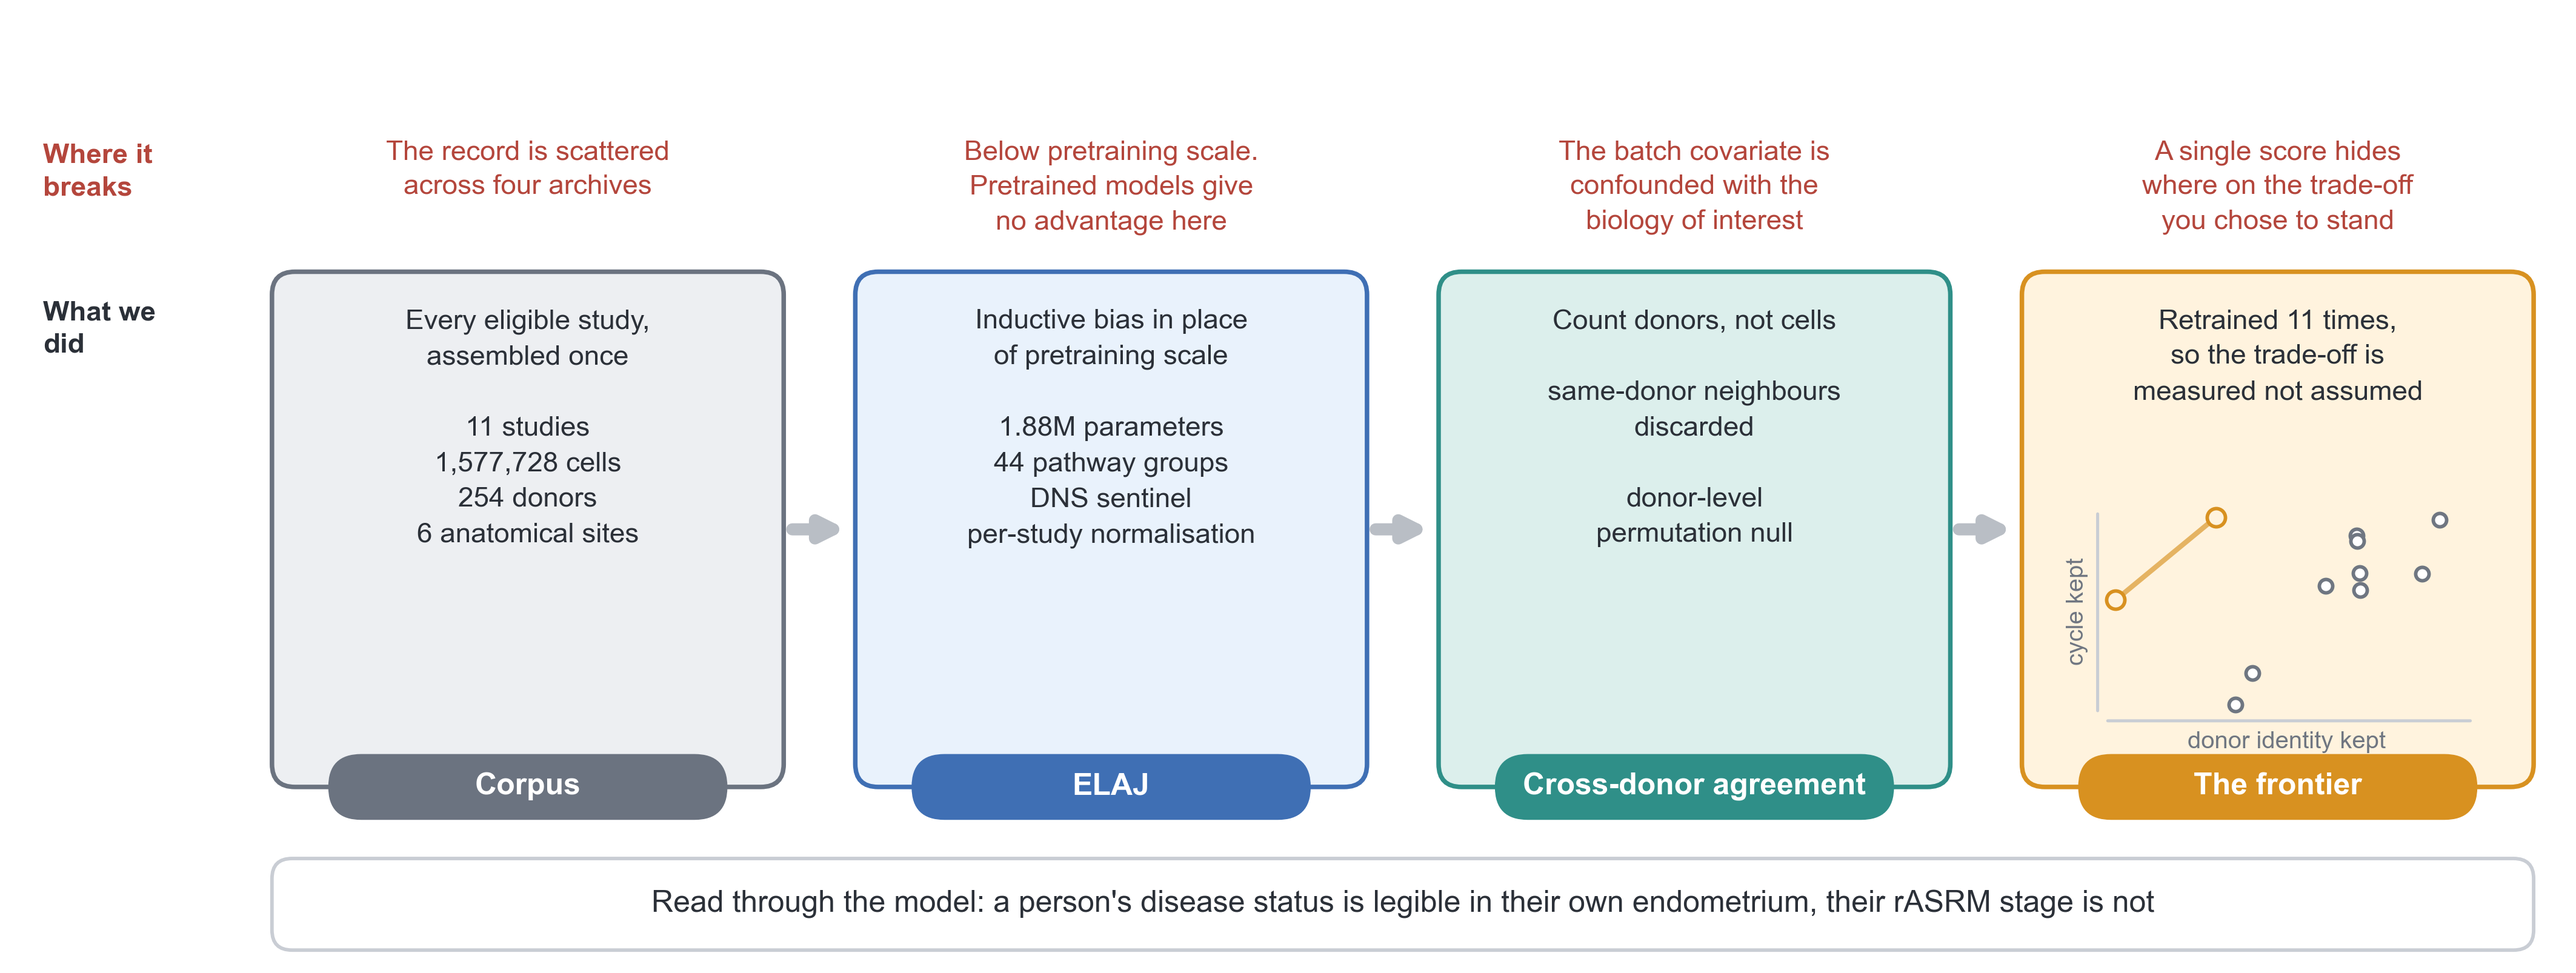
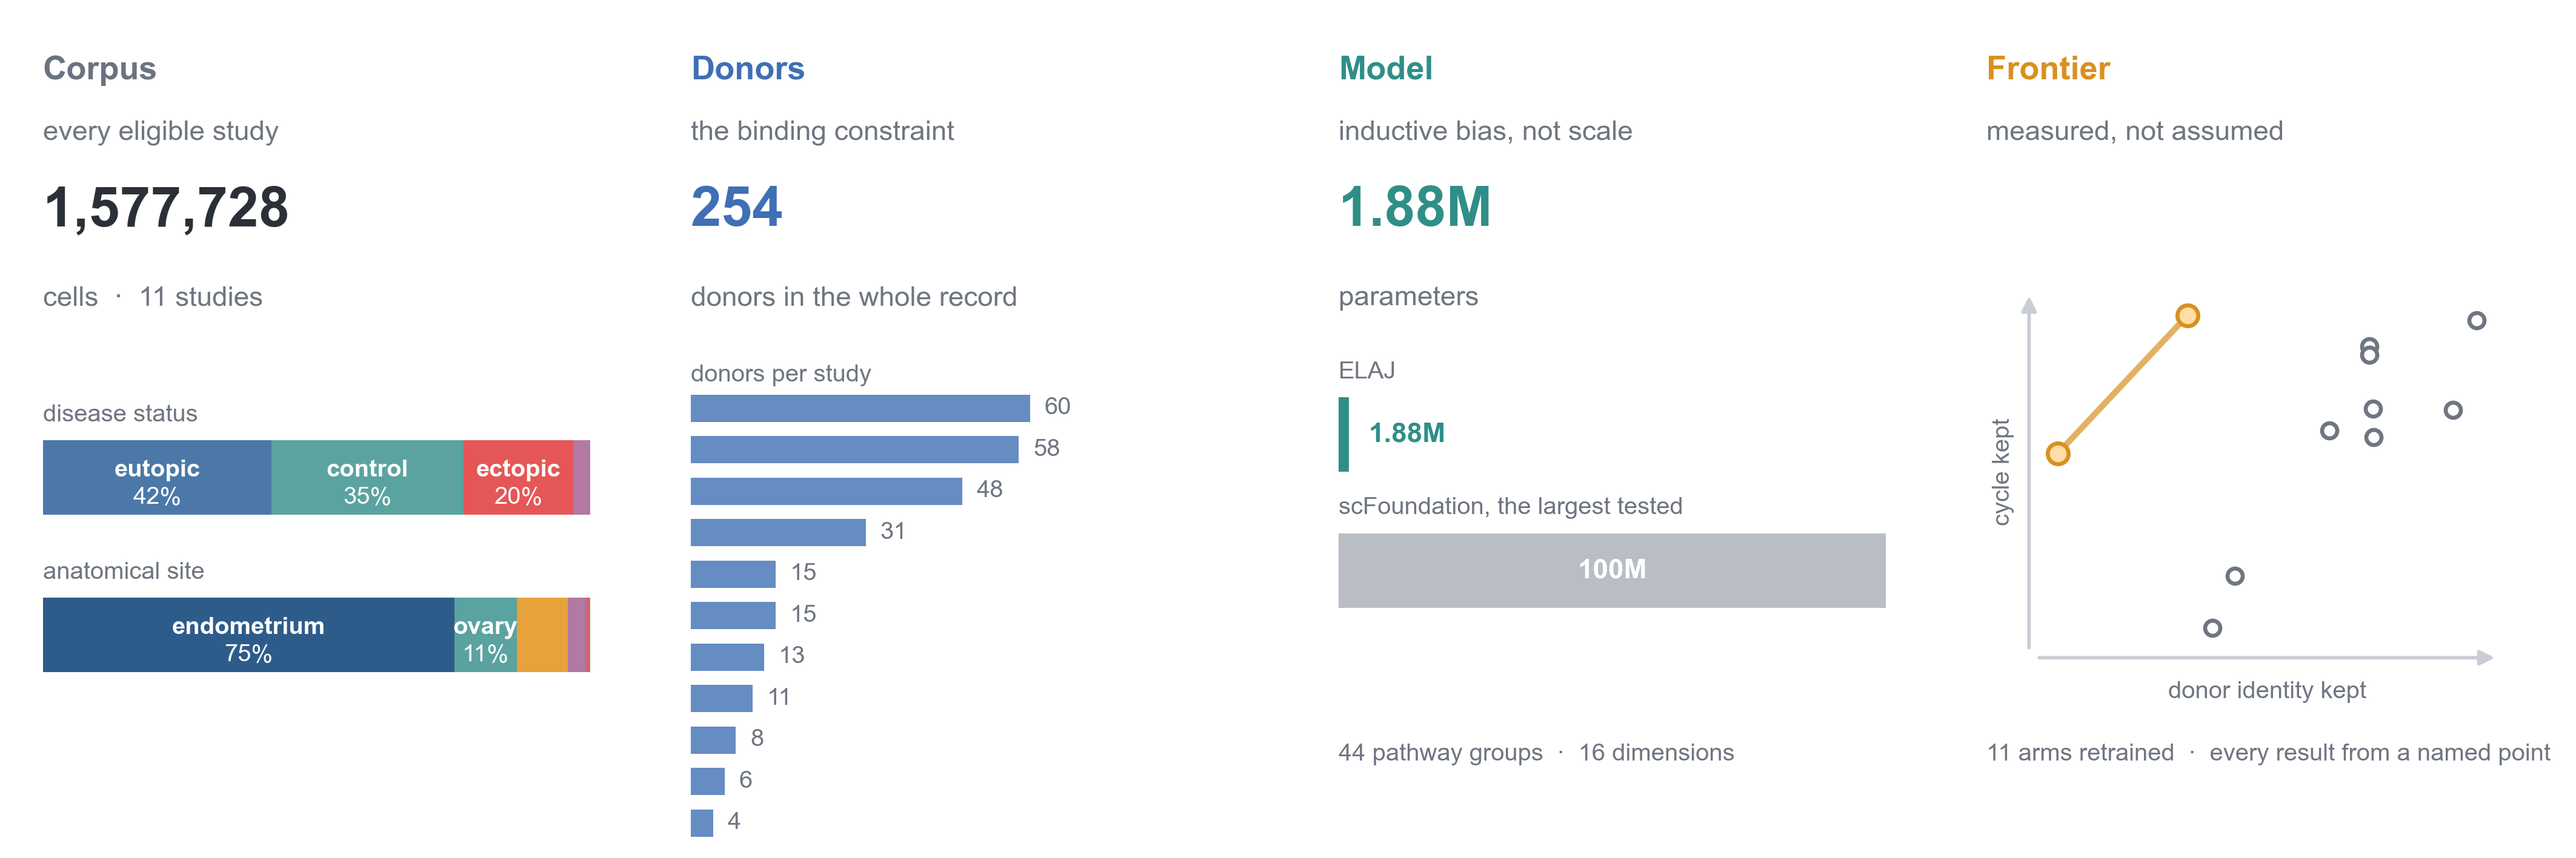
Figure 1a as a graphical abstract: numbers and bars, not sentences

diff --git a/figures/scripts/panel_a_abstract.py b/figures/scripts/panel_a_abstract.py
@@ -1,31 +1,32 @@
 #!/usr/bin/env python
-"""Candidate Figure 1a — the paper in one image.
+"""Candidate Figure 1a — the paper in one image, IBDex's idiom.
 
-AW, 11 November: panel a stops being the architecture and becomes what
-scGPT's Figure 1a is, which is the paper's claim stated visually. The
-architecture moves to 1b.
+AW, 11 November, on the previous attempt: "too literal with too many words.
+That is not a graphical abstract." He was right. It was a table of sentences
+with boxes drawn round it.
 
-THE FIGURE IS THE AGREED ONE-LINE STORY, IN ORDER. Every box in the lower
-band is one clause of it and nothing appears that is not in it:
+WHAT IBDex FIG. 1a ACTUALLY DOES (Acharjee, medRxiv 2026.10.20.26365993),
+read off the PDF rather than remembered:
+  * bold coloured headings over each group, and almost no prose anywhere
+  * stacked proportional bars with the count AND the percentage set inside
+    the coloured block, in white
+  * pictograms where a picture will do
+  * numbers as the content. Sentences are the caption's job, not the
+    figure's.
 
-  "In this paper we build a single-cell disease atlas where inductive bias
-   replaces pretraining scale, and use that to measure the trade-off between
-   removing batch effects and keeping biology on a corpus limited by donors."
+So this version carries four beats, each a heading, a three-word subtitle
+and a picture made of real numbers. The argument is in the comparison of
+the pictures, not in text:
 
-  corpus limited by donors -> inductive bias not scale -> measure -> frontier
+  corpus -> donors are the binding constraint -> small model -> the frontier
 
-GRAMMAR BORROWED FROM scGPT FIG. 1a (Nat. Methods 21, 1470-1480), read off
-the published PDF rather than remembered:
-  * rounded group boxes with a coloured outline and a dark pill tab sitting
-    ON the bottom border, naming the stage. That tab is their signature.
-  * row labels on the far left, set in the row's own colour.
-  * chunky grey arrows between groups, so the eye reads stages not wiring.
-  * real content inside the boxes rather than abstractions, which is why
-    the last box holds the actual frontier rather than a cartoon of one.
+which is the agreed one-line story, with the prose removed.
 
-THE UPPER BAND IS THE PROBLEM, and it is deliberately wordy and numberless:
-a graphical abstract is read in ten seconds, so the numbers all sit in the
-lower band where the evidence is.
+THE DONOR COUNT IS 254, NOT THE 269 THE TABLE RETURNS. 269 is the
+pre-deduplication count of patient identifiers; fifteen samples are
+duplicated across studies. 254 is the settled number everywhere in the
+paper and 269 appears only in Data collection where the merge is explained.
+The assert below fails loudly if that ever stops being true.
 """
 from __future__ import annotations
 import os, sys
@@ -34,50 +35,142 @@ from pathlib import Path
 import matplotlib
 matplotlib.use("Agg")
 import matplotlib.pyplot as plt
-from matplotlib.patches import FancyBboxPatch
+import pandas as pd
+from matplotlib.patches import FancyBboxPatch, Rectangle
 
 sys.path.insert(0, str(Path(__file__).resolve().parent))
 from table1 import collect, MANIFEST, BASELINES, FOUNDATION   # noqa: E402
 
+ROOT = Path("/Users/atharvawaghmare/Endo research/ELAJ")
+ARM = "p1_dab168_kl1"
 OUT = Path(__file__).resolve().parents[1] / "pinned"
 
-INK, NOTE, HAIR = "#2B3038", "#6F7681", "#C9CDD4"
-PROB = "#B4463C"                      # the problem band
-GREY_F, GREY_E = "#EDEFF2", "#6B7380"
-BLUE_F, BLUE_E = "#E9F2FC", "#3F6FB4"
-TEAL_F, TEAL_E = "#DCEFEC", "#2F8F88"
-AMB_F,  AMB_E  = "#FFF3DE", "#D89120"
+DONORS = 254          # see the docstring
+PARAMS_ELAJ, PARAMS_FM = 1.883986, 100.0      # millions
 
-FS_PILL, FS_BODY, FS_PROB, FS_OUT = 6.0, 5.5, 5.5, 6.0
+INK, NOTE, HAIR = "#2B3038", "#6F7681", "#C9CDD4"
+GREY_E, BLUE_E, TEAL_E, AMB_E = "#6B7380", "#3F6FB4", "#2F8F88", "#D89120"
+DIS_C = {"eutopic": "#4C78A8", "control": "#5BA3A0",
+         "ectopic": "#E45756", "adenomyosis": "#B279A2"}
+TIS_C = ["#2E5C8A", "#5BA3A0", "#E8A23C", "#B279A2", "#CC6677", "#999933"]
+
+FS_HEAD, FS_SUB, FS_NUM, FS_TINY = 6.5, 5.5, 5.5, 4.8
 plt.rcParams.update({"font.family": "Arial", "text.color": INK})
 
 
-def group(ax, x, y, w, h, fc, ec, pill, body):
-    ax.add_patch(FancyBboxPatch((x, y), w, h, "round,pad=0,rounding_size=1.6",
-                                fc=fc, ec=ec, lw=.9, zorder=2))
-    ax.text(x + w / 2, y + h - 2.6, body, ha="center", va="top",
-            fontsize=FS_BODY, color=INK, zorder=4, linespacing=1.55)
-    # the pill sits ON the bottom border, scGPT's device
-    pw, ph = w * 0.78, 4.6
-    ax.add_patch(FancyBboxPatch((x + (w - pw) / 2, y - ph / 2), pw, ph,
-                                "round,pad=0,rounding_size=2.3",
-                                fc=ec, ec=ec, lw=0, zorder=5))
-    ax.text(x + w / 2, y + 0.05, pill, ha="center", va="center",
-            fontsize=FS_PILL, color="#FFFFFF", fontweight="bold", zorder=6)
+def heading(ax, x, y, text, sub, colour):
+    ax.text(x, y, text, ha="left", va="bottom", fontsize=FS_HEAD,
+            fontweight="bold", color=colour)
+    ax.text(x, y - 2.4, sub, ha="left", va="top", fontsize=FS_SUB, color=NOTE)
 
 
-def arrow(ax, x0, x1, y):
-    ax.annotate("", xy=(x1, y), xytext=(x0, y), zorder=1,
-                arrowprops=dict(arrowstyle="-|>", color="#B9BEC5", lw=2.4,
-                                shrinkA=0, shrinkB=0, mutation_scale=9))
+def stacked(ax, x, y, w, h, parts, colours, total, inside_min=0.10):
+    """IBDex's bar: counts and percents set inside the block, in white."""
+    cx = x
+    for (lab, n), c in zip(parts, colours):
+        bw = w * n / total
+        ax.add_patch(Rectangle((cx, y), bw, h, fc=c, ec="none", zorder=3))
+        if n / total >= inside_min:
+            ax.text(cx + bw / 2, y + h * 0.60, lab, ha="center", va="center",
+                    fontsize=FS_TINY, color="#FFFFFF", fontweight="bold", zorder=4)
+            ax.text(cx + bw / 2, y + h * 0.24, f"{100*n/total:.0f}%",
+                    ha="center", va="center", fontsize=FS_TINY,
+                    color="#FFFFFF", zorder=4)
+        cx += bw
 
 
-def mini_frontier(ax, x, y, w, h):
-    """The real frontier, not a cartoon of one. Same source as Table 1."""
+def main() -> None:
+    m = pd.read_csv(ROOT / f"Outputs/cells/{ARM}/metadata.csv.gz",
+                    low_memory=False,
+                    usecols=["study", "tissue", "disease_status", "patient_id"])
+    assert m.patient_id.nunique() == 269, "the 269/254 note in the docstring is stale"
+    n_cells, n_studies = len(m), m.study.nunique()
+    dis = m.disease_status.value_counts()
+    tis = m.tissue.value_counts()
+    per_study = m.groupby("study").patient_id.nunique().sort_values(ascending=False)
+
+    W, H = 180.0, 60.0
+    fig = plt.figure(figsize=(W / 25.4, H / 25.4))
+    ax = fig.add_axes([0, 0, 1, 1]); ax.set_xlim(0, W); ax.set_ylim(0, H)
+    ax.axis("off")
+
+    GAP = 7.0
+    bw = (W - 6.0 - 3 * GAP) / 4
+    xs = [3.0 + i * (bw + GAP) for i in range(4)]
+    TOP = 54.0
+
+    # ── 1. the corpus ───────────────────────────────────────────────────
+    x = xs[0]
+    heading(ax, x, TOP, "Corpus", "every eligible study", GREY_E)
+    ax.text(x, TOP - 7.0, f"{n_cells:,}", ha="left", va="top",
+            fontsize=11, fontweight="bold", color=INK)
+    ax.text(x, TOP - 14.0, f"cells  ·  {n_studies} studies", ha="left",
+            va="top", fontsize=FS_NUM, color=NOTE)
+    stacked(ax, x, 24.0, bw, 5.2,
+            [(k, dis[k]) for k in ["eutopic", "control", "ectopic", "adenomyosis"]],
+            [DIS_C[k] for k in ["eutopic", "control", "ectopic", "adenomyosis"]],
+            n_cells)
+    ax.text(x, 30.2, "disease status", ha="left", va="bottom",
+            fontsize=FS_TINY, color=NOTE)
+    stacked(ax, x, 13.0, bw, 5.2, list(tis.items())[:6], TIS_C, n_cells)
+    ax.text(x, 19.2, "anatomical site", ha="left", va="bottom",
+            fontsize=FS_TINY, color=NOTE)
+
+    # ── 2. the binding constraint ───────────────────────────────────────
+    x = xs[1]
+    heading(ax, x, TOP, "Donors", "the binding constraint", BLUE_E)
+    ax.text(x, TOP - 7.0, f"{DONORS}", ha="left", va="top",
+            fontsize=11, fontweight="bold", color=BLUE_E)
+    ax.text(x, TOP - 14.0, "donors in the whole record", ha="left", va="top",
+            fontsize=FS_NUM, color=NOTE)
+    bh, step = 1.9, 2.9
+    y = 30.5
+    for s, n in per_study.items():
+        ax.add_patch(Rectangle((x, y), bw * 0.62 * n / per_study.max(), bh,
+                               fc=BLUE_E, ec="none", alpha=.80, zorder=3))
+        ax.text(x + bw * 0.62 * n / per_study.max() + 1.0, y + bh / 2, str(n),
+                ha="left", va="center", fontsize=FS_TINY, color=NOTE)
+        y -= step
+    ax.text(x, 33.0, "donors per study", ha="left", va="bottom",
+            fontsize=FS_TINY, color=NOTE)
+
+    # ── 3. the model ────────────────────────────────────────────────────
+    x = xs[2]
+    heading(ax, x, TOP, "Model", "inductive bias, not scale", TEAL_E)
+    ax.text(x, TOP - 7.0, "1.88M", ha="left", va="top",
+            fontsize=11, fontweight="bold", color=TEAL_E)
+    ax.text(x, TOP - 14.0, "parameters", ha="left", va="top",
+            fontsize=FS_NUM, color=NOTE)
+    # The ELAJ bar is a sliver and that IS the point, so its number sits
+    # outside the bar; scFoundation's fills the column so its number goes
+    # inside, in white. The first version put both outside and the 100M
+    # label fell off the right edge of the figure.
+    for i, (lab, v, c) in enumerate((("ELAJ", PARAMS_ELAJ, TEAL_E),
+                                     ("scFoundation, the largest tested",
+                                      PARAMS_FM, "#B9BEC5"))):
+        yy = 27.0 - i * 9.5
+        barw = bw * v / PARAMS_FM
+        ax.add_patch(Rectangle((x, yy), barw, 5.2, fc=c, ec="none", zorder=3))
+        ax.text(x, yy + 6.2, lab, ha="left", va="bottom", fontsize=FS_TINY,
+                color=NOTE)
+        if barw > bw * 0.35:
+            ax.text(x + barw / 2, yy + 2.6, f"{v:.0f}M", ha="center",
+                    va="center", fontsize=FS_NUM, color="#FFFFFF",
+                    fontweight="bold", zorder=4)
+        else:
+            ax.text(x + barw + 1.4, yy + 2.6, f"{v:.2f}M", ha="left",
+                    va="center", fontsize=FS_NUM, color=TEAL_E,
+                    fontweight="bold", zorder=4)
+    ax.text(x, 6.5, "44 pathway groups  ·  16 dimensions", ha="left",
+            va="bottom", fontsize=FS_TINY, color=NOTE)
+
+    # ── 4. the frontier, the real one ───────────────────────────────────
+    x = xs[3]
+    heading(ax, x, TOP, "Frontier", "measured, not assumed", AMB_E)
     D = collect()
     pts = []
-    for m in list(BASELINES) + list(FOUNDATION):
-        g = D[m]
+    for mm in list(BASELINES) + list(FOUNDATION):
+        g = D[mm]
         a = g.get(("cross-donor", "menstrual phase"))
         b = g.get(("knn-agreement", "patient_id"))
         if a and b:
@@ -86,78 +179,30 @@ def mini_frontier(ax, x, y, w, h):
         g = D[key]
         pts.append((float(g[("knn-agreement", "patient_id")]),
                     float(g[("cross-donor", "menstrual phase")]), True))
-    xs = [p[0] for p in pts]; ys = [p[1] for p in pts]
-    x0, x1 = min(xs), max(xs); y0, y1 = min(ys), max(ys)
-    def px(v): return x + w * (0.14 + 0.72 * (v - x0) / (x1 - x0))
-    def py(v): return y + h * (0.20 + 0.70 * (v - y0) / (y1 - y0))
+    px0, py0, pw, ph = x + 3.0, 14.0, bw - 5.0, 26.0
+    X = [p[0] for p in pts]; Y = [p[1] for p in pts]
+    sx, sy = (max(X) - min(X)), (max(Y) - min(Y))
+    fx = lambda v: px0 + pw * (0.06 + 0.88 * (v - min(X)) / sx)
+    fy = lambda v: py0 + ph * (0.08 + 0.84 * (v - min(Y)) / sy)
     ours = sorted([p for p in pts if p[2]])
-    ax.plot([px(p[0]) for p in ours], [py(p[1]) for p in ours], "-",
-            color=AMB_E, lw=1.0, alpha=.65, zorder=6)
+    ax.plot([fx(p[0]) for p in ours], [fy(p[1]) for p in ours], "-",
+            color=AMB_E, lw=1.2, alpha=.7, zorder=6)
     for bx, by, mine in pts:
-        ax.scatter([px(bx)], [py(by)], s=13 if mine else 7, zorder=7,
-                   c=AMB_F if mine else "#FFFFFF",
-                   edgecolors=AMB_E if mine else NOTE, linewidths=.7)
-    ax.annotate("", xy=(x + w * 0.10, y + h * 0.95), xytext=(x + w * 0.10, y + h * 0.14),
-                arrowprops=dict(arrowstyle="-", color=HAIR, lw=.6), zorder=5)
-    ax.annotate("", xy=(x + w * 0.95, y + h * 0.14), xytext=(x + w * 0.10, y + h * 0.14),
-                arrowprops=dict(arrowstyle="-", color=HAIR, lw=.6), zorder=5)
-    ax.text(x + w * 0.52, y + h * 0.02, "donor identity kept", ha="center",
-            va="bottom", fontsize=4.8, color=NOTE)
-    ax.text(x + w * 0.055, y + h * 0.55, "cycle kept", ha="center", va="center",
-            rotation=90, fontsize=4.8, color=NOTE)
-
-
-def main() -> None:
-    W, H = 180.0, 68.0
-    fig = plt.figure(figsize=(W / 25.4, H / 25.4))
-    ax = fig.add_axes([0, 0, 1, 1]); ax.set_xlim(0, W); ax.set_ylim(0, H)
-    ax.axis("off")
-
-    GUT, GAP = 19.0, 5.0
-    bw = (W - GUT - 3.0 - 3 * GAP) / 4
-    xs = [GUT + i * (bw + GAP) for i in range(4)]
-    BY, BH = 13.0, 36.0                      # the solution band
-    PY = BY + BH + 4.0                       # the problem band
-
-    ax.text(3.0, PY + 5.0, "Where it\nbreaks", ha="left", va="top",
-            fontsize=FS_BODY, color=PROB, fontweight="bold", linespacing=1.4)
-    ax.text(3.0, BY + BH - 2.0, "What we\ndid", ha="left", va="top",
-            fontsize=FS_BODY, color=INK, fontweight="bold", linespacing=1.4)
-
-    problems = [
-        "The record is scattered\nacross four archives",
-        "Below pretraining scale.\nPretrained models give\nno advantage here",
-        "The batch covariate is\nconfounded with the\nbiology of interest",
-        "A single score hides\nwhere on the trade-off\nyou chose to stand",
-    ]
-    for x, p in zip(xs, problems):
-        ax.text(x + bw / 2, PY + 5.2, p, ha="center", va="top",
-                fontsize=FS_PROB, color=PROB, linespacing=1.5)
-
-    group(ax, xs[0], BY, bw, BH, GREY_F, GREY_E, "Corpus",
-          "Every eligible study,\nassembled once\n\n"
-          "11 studies\n1,577,728 cells\n254 donors\n6 anatomical sites")
-    group(ax, xs[1], BY, bw, BH, BLUE_F, BLUE_E, "ELAJ",
-          "Inductive bias in place\nof pretraining scale\n\n"
-          "1.88M parameters\n44 pathway groups\nDNS sentinel\nper-study normalisation")
-    group(ax, xs[2], BY, bw, BH, TEAL_F, TEAL_E, "Cross-donor agreement",
-          "Count donors, not cells\n\n"
-          "same-donor neighbours\ndiscarded\n\n"
-          "donor-level\npermutation null")
-    group(ax, xs[3], BY, bw, BH, AMB_F, AMB_E, "The frontier",
-          "Retrained 11 times,\nso the trade-off is\nmeasured not assumed")
-    mini_frontier(ax, xs[3] + bw * 0.06, BY + 2.0, bw * 0.88, BH * 0.52)
-
-    for i in range(3):
-        arrow(ax, xs[i] + bw + 0.6, xs[i + 1] - 0.6, BY + BH / 2)
-
-    ax.add_patch(FancyBboxPatch((GUT, 1.6), W - GUT - 3.0, 6.4,
-                                "round,pad=0,rounding_size=1.4",
-                                fc="#FFFFFF", ec=HAIR, lw=.7, zorder=2))
-    ax.text(GUT + (W - GUT - 3.0) / 2, 4.8,
-            "Read through the model: a person's disease status is legible in "
-            "their own endometrium, their rASRM stage is not",
-            ha="center", va="center", fontsize=FS_OUT, color=INK, zorder=3)
+        ax.scatter([fx(bx)], [fy(by)], s=17 if mine else 9, zorder=7,
+                   c="#FFDDA6" if mine else "#FFFFFF",
+                   edgecolors=AMB_E if mine else NOTE, linewidths=.8)
+    ax.annotate("", xy=(px0, py0 + ph), xytext=(px0, py0),
+                arrowprops=dict(arrowstyle="-|>", color=HAIR, lw=.7,
+                                mutation_scale=6), zorder=5)
+    ax.annotate("", xy=(px0 + pw, py0), xytext=(px0, py0),
+                arrowprops=dict(arrowstyle="-|>", color=HAIR, lw=.7,
+                                mutation_scale=6), zorder=5)
+    ax.text(px0 + pw / 2, py0 - 1.6, "donor identity kept", ha="center",
+            va="top", fontsize=FS_TINY, color=NOTE)
+    ax.text(px0 - 1.8, py0 + ph / 2, "cycle kept", ha="center", va="center",
+            rotation=90, fontsize=FS_TINY, color=NOTE)
+    ax.text(x, 6.5, "11 arms retrained  ·  every result from a named point",
+            ha="left", va="bottom", fontsize=FS_TINY, color=NOTE)
 
     OUT.mkdir(parents=True, exist_ok=True)
     fig.savefig(OUT / "panel_a_abstract.png",
